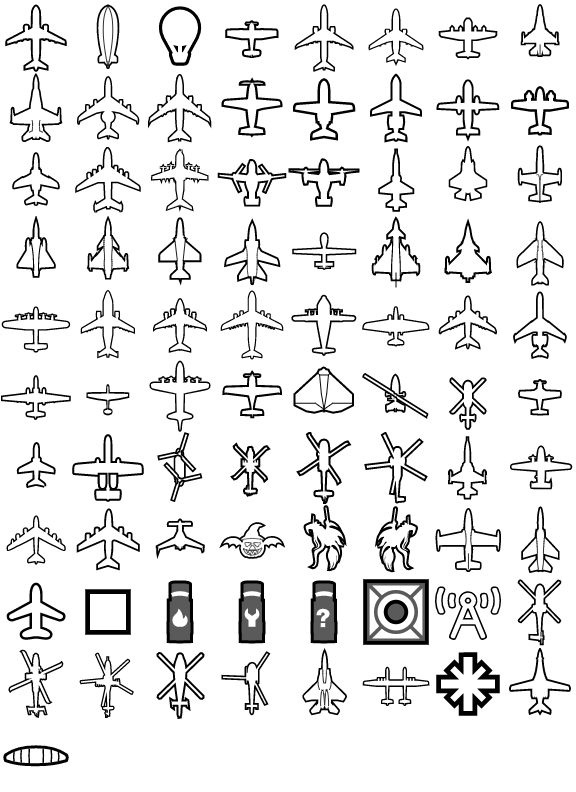
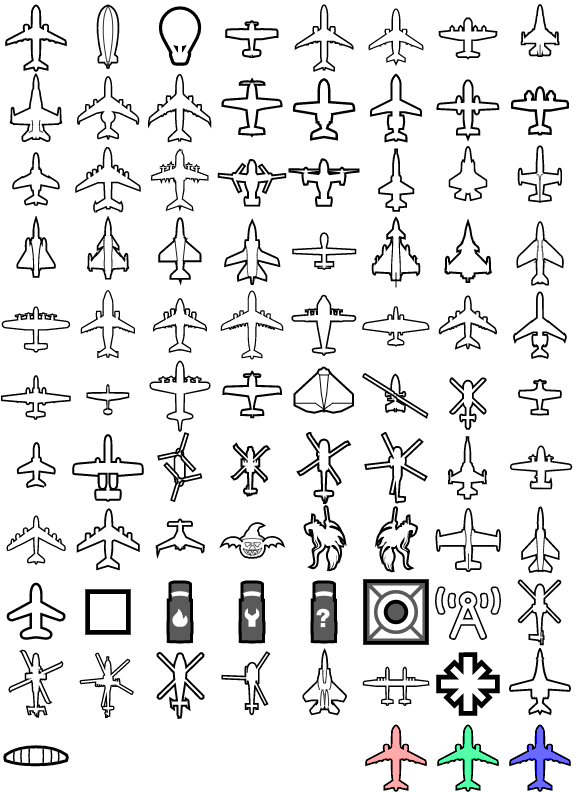
Updated aircraft images, added colors.

Changed region(s): [[0.625, 0.9091, 1.0, 1.0]]

diff --git a/htdocs/lib/MapLocators.js b/htdocs/lib/MapLocators.js
@@ -113,7 +113,7 @@ LocatorManager.prototype.getType = function(data) {
 
 LocatorManager.prototype.getColor = function(data) {
     var type = this.getType(data);
-    if (!type) return "#ffffff00";
+    if (!type) return '#ffffff00';
 
     // If adding a new key...
     if (!this.colorKeys[type]) {

diff --git a/owrx/aircraft.py b/owrx/aircraft.py
@@ -34,7 +34,7 @@ MODE_S_FORMATS = [
 ADSB_CATEGORIES = {
   "A0": (0, 0),  # No ADS-B emitter category information
   "A1": (3, 0),  # Light (< 15500 lbs)
-  "A2": (4, 1),  # Small (15500 to 75000 lbs)
+  "A2": (7, 6),  # Small (15500 to 75000 lbs)
   "A3": (5, 0),  # Large (75000 to 300000 lbs)
   "A4": (4, 0),  # High vortex large (aircraft such as B-757)
   "A5": (1, 7),  # Heavy (> 300000 lbs)
@@ -58,6 +58,12 @@ ADSB_CATEGORIES = {
   "C7": (2, 8),  # Reserved
 }
 
+MODE_CATEGORIES = {
+  "ADSB":  (0, 0),
+  "ACARS": (5, 10),
+  "HFDL":  (6, 10),
+  "VDL2":  (7, 10),
+}
 
 #
 # This class represents current aircraft location compatible with
@@ -70,16 +76,23 @@ class AircraftLocation(LatLngLocation):
         # Complete aircraft data
         self.data = data
 
+    def getSymbol(self):
+        # Add an aircraft symbol
+        if "category" in self.data and self.data["category"] in ADSB_CATEGORIES:
+            # Add symbol by aircraft category
+            cat = ADSB_CATEGORIES[self.data["category"]]
+            return { "x": cat[0], "y": cat[1] }
+        elif "mode" in self.data and self.data["mode"] in MODE_CATEGORIES:
+            # Add symbol by comms moce (red, green, or blue)
+            cat = MODE_CATEGORIES[self.data["mode"]]
+            return { "x": cat[0], "y": cat[1] }
+        else:
+            # Default to white symbols
+            return { "x": 0, "y": 0 }
+
     def __dict__(self):
         res = super(AircraftLocation, self).__dict__()
-        # Add an APRS-like symbol
-        if "category" in self.data and self.data["category"] in ADSB_CATEGORIES:
-            # Add APRS-like symbol by aircraft category
-            cat = ADSB_CATEGORIES[self.data["category"]]
-            res["symbol"] = { "x": cat[0], "y": cat[1] }
-        else:
-            # Add APRS-like aircraft symbol (red or blue, depending on mode)
-            res["symbol"] = { "x": 0, "y": 0 }
+        res["symbol"] = self.getSymbol()
         # Convert aircraft-specific data into APRS-like data
         for x in ["ttl", "icao", "aircraft", "flight", "speed", "altitude", "course", "destination", "origin", "vspeed", "squawk", "rssi", "msglog"]:
             if x in self.data:
